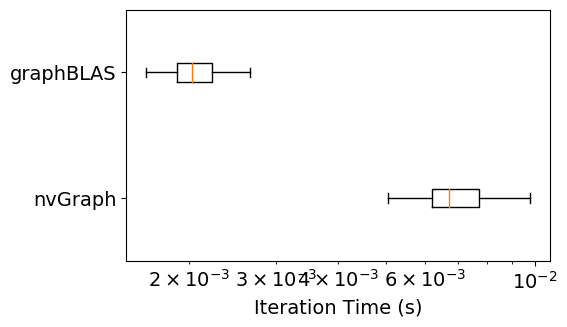
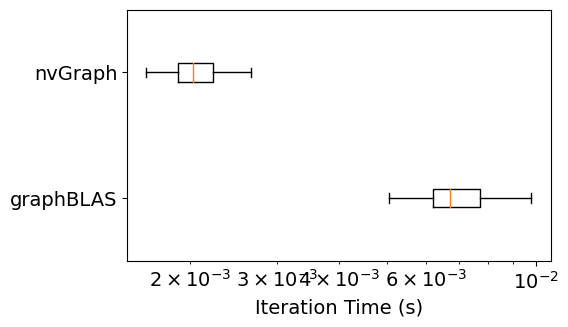
Correcting SSSP Timing

diff --git a/plotShortestPathTimes.py b/plotShortestPathTimes.py
@@ -43,7 +43,7 @@ def plotShortestPathTimes(graph):
   fig, ax = plt.subplots()
   plt.tight_layout()
   fig.set_size_inches(5,3)
-  ax.boxplot([gb_data[graph], cu_data[graph]], labels=["nvGraph", "graphBLAS"], vert=False, showfliers=False)
+  ax.boxplot([gb_data[graph], cu_data[graph]], labels=["graphBLAS", "nvGraph"], vert=False, showfliers=False)
 
   ax.set_xlabel("Iteration Time (s)")
   ax.set_xscale ('log')
